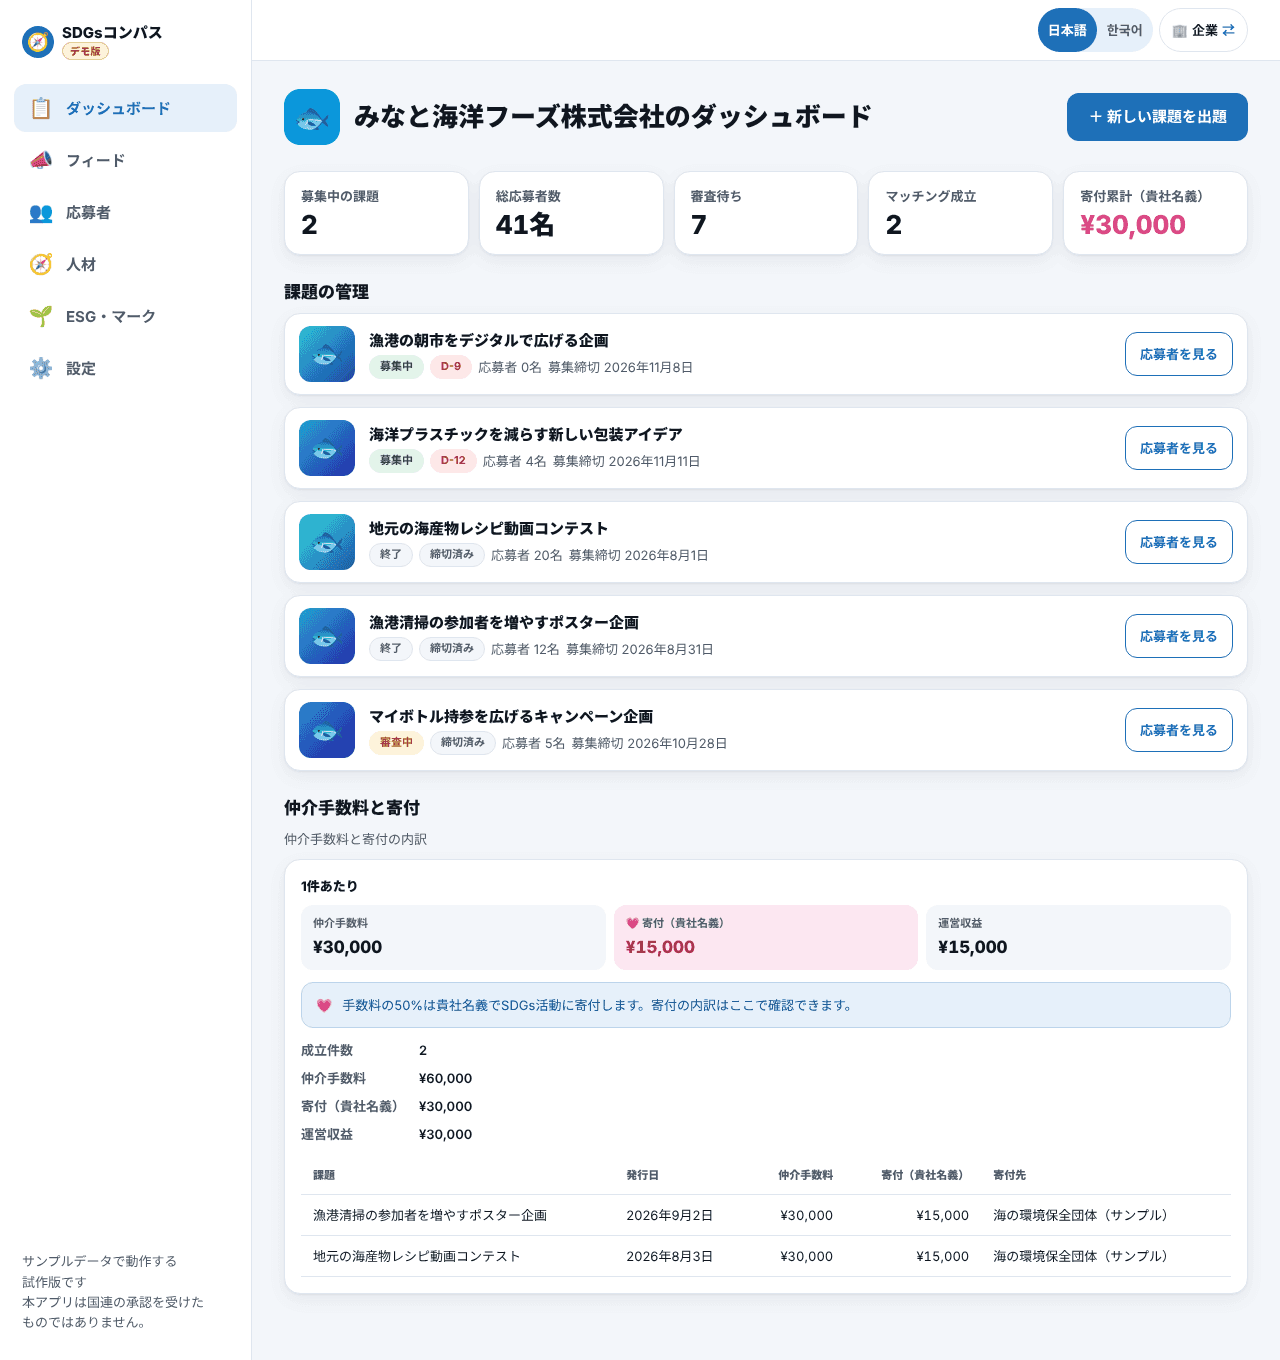
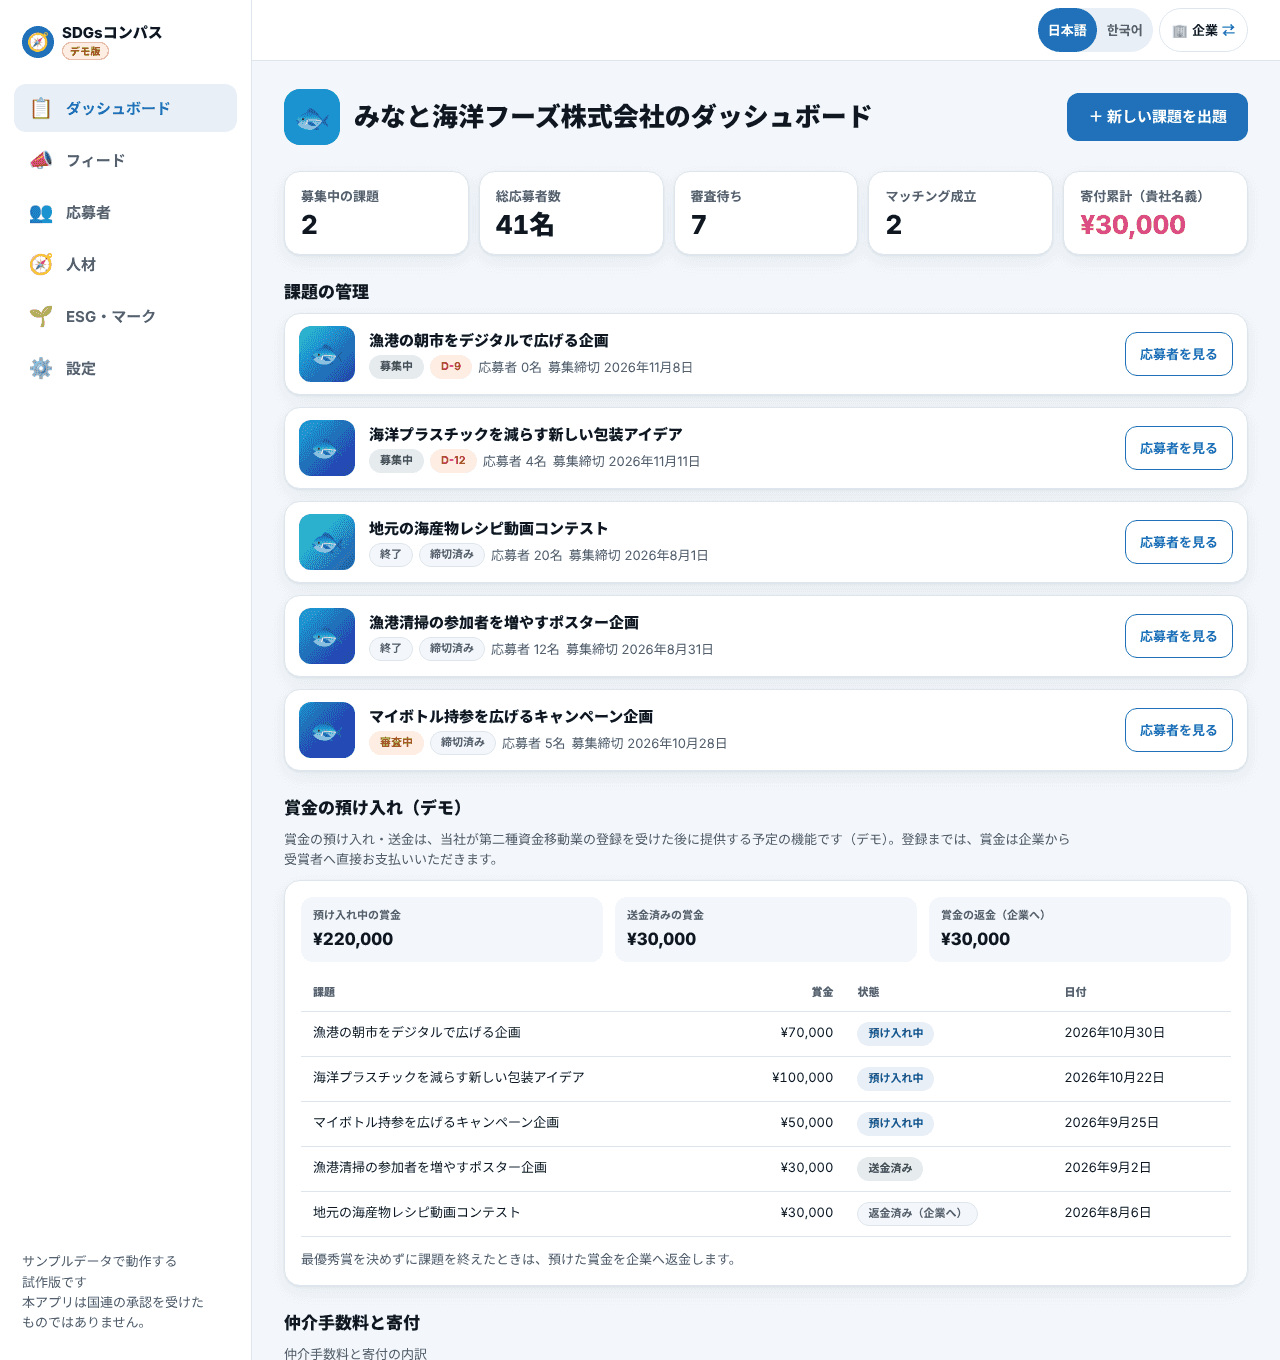
docs: リワード残高 설계(rewards.md)·README·목업
- docs/rewards.md: 구조(그림) · 사용자 결정 · 규칙과 코드·DB 대응 · 법적 근거 요약과 출처(2026-10-31 확인) ·
  하지 않는 것 · 전문가 확인 질문 (법률 자문 아님)
- docs/student-merit.md: "앱은 돈을 다루지 않아요" → 등록 후 リワード残高(데모)로 맞춤
- README: 한눈에 보기 · 시연 순서(⑤·⑩) · 화면 ↔ 주소 ↔ 코드 · DB 규칙 · 기능 현황 · 저장소 구조 ·
  데모의 한계 · 일본어 개요 · 표 68 · 뷰 8 · DB 시험 7개 파일
- 목업: web-b2c-wallet-ja/ko (새로), Impact · 대시보드 ja/ko · 응모자 · 새 과제 다시 찍기 (모두 75KB 이하)

Closes #25

Claude-Session: https://claude.ai/code/session_01LvWATVHgpvryt6TBs7ZpJZ

diff --git a/docs/rewards.md b/docs/rewards.md
@@ -1,0 +1,123 @@
+# リワード残高 (보상 잔액) — 기업 상금 · 운영 환원 · 출금 설계 (#25, 데모)
+
+> 이 문서는 서비스 설계와 공개된 1차 자료를 정리한 메모예요. **법률·세무 자문이 아니고**, 실제 운영 전에 전문가(행정서사·변호사·세무사)의 확인을 받을 예정이에요.
+> 데모 앱은 화면과 규칙만 보여 주고 **실제 송금·결제·은행 연동·본인 확인(eKYC)은 하지 않아요.** 금액·회사·사람은 모두 가상이에요.
+
+## 한 줄 요약
+
+학생은 **「リワード残高」(보상 잔액, 엔 단위)** 로 ① 기업이 과제에 건 **상금**과 ② 운영사의 **운영 환원**을 받고, **본인 확인 뒤 은행 계좌로 출금**해요(1회 100만 엔 이하).
+이 기능은 운영사(株式会社)가 **第二種資金移動業 등록**을 받은 뒤에 제공해요. 등록 전에는 운영사가 돈을 다루지 않고, 상금은 기업이 수상자에게 직접 지급해요.
+실적(참가·제출·수상)은 **임팩트 레벨**로만 보여 주고, 레벨은 돈과 관계없어요(바꿀 수 없어요).
+
+## 사용자 결정 (2026-11-01)
+
+| 주제 | 결정 |
+| --- | --- |
+| 실적 표시 | **레벨 + 다음 레벨까지 진행률(%)**. 화면의 포인트 숫자는 숨겨요(#24). 레벨은 돈과 무관하고 바꿀 수 없어요. |
+| 보상 방식 | **처음부터 등록형** — 운영사가 第二種資金移動業 등록을 받은 뒤 ① 상금(과제를 낼 때 운영사에 예치) ② 운영 환원을 リワード残高로 보내고, 학생은 본인 확인 뒤 출금(1회 100만 엔 이하). **등록 전에는 제공하지 않아요.** |
+| 운영 환원 | 각 기 말에 **운전자금 3개월분**(그 기 경비 + 매출원가의 3/12)을 남기고, **그 기 경상이익 중 남는 금액 전부**를 학생에게 환원. 배분은 **미리 공개한 기준**(그 기의 수상·제출 등 실적 — 작업 시간·양에 비례하지 않게). |
+
+## 구조
+
+```mermaid
+flowchart LR
+  subgraph COMPANY["기업"]
+    C1["과제를 낸다<br/>(상금 ¥N)"]
+  end
+  subgraph OPERATOR["운영사 (株式会社 · 第二種資金移動業 등록 후)"]
+    D["상금 예치<br/>prize_deposits"]
+    R["기 말 운영 환원<br/>운전자금 3개월분을 남긴 이익 전부"]
+  end
+  subgraph STUDENT["학생"]
+    W["リワード残高<br/>원장 wallet_entries"]
+    K["본인 확인 (eKYC)"]
+    B["은행 계좌"]
+    L["インパクトレベル<br/>(돈과 무관 · 바꿀 수 없음)"]
+  end
+  C1 -- "출제할 때 예치" --> D
+  D -- "최우수상 팀에 송금" --> W
+  D -. "최우수상 없이 마감 → 반환" .-> C1
+  R -- "미리 공개한 기준(수상·제출 실적)으로 배분" --> W
+  W --> K
+  K -- "출금 신청: 1회 1~100만 엔 · 잔액 이하" --> B
+  C1 -. "참가·제출·수상 실적" .-> L
+```
+
+- 잔액은 **살 수 없고(충전 없음)**, **남에게 넘길 수 없고**, **이자가 붙지 않아요.** 원장에는 입금(상금·환원)과 출금만 있어요.
+- 상금은 과제의 **최우수상 1팀**(그 팀의 제출자 = 데모의 대표)에 가요. 한 번 보낸 상금은 되돌리지 않아요. 우수상·특별상에는 이 데모에서 상금을 붙이지 않아요(상별 상금은 앞으로 검토).
+- 최우수상을 정하지 않고 과제가 끝나면 맡긴 상금은 기업에 돌려줘요(「賞金の返金（企業へ）」).
+- 사업 계획의 시산에서는 **처음 몇 기 동안 기말 자금이 운전자금 3개월분에 못 미쳐 환원이 없을 수 있어요.** 앱·문서는 이것을 숨기지 않고, 운영자 화면의 수지 시뮬레이션(#26, [docs/admin.md](admin.md))이 같은 규칙으로 "몇 기부터 환원되는지"를 보여 줘요. 공개 저장소에는 실제 계획의 숫자를 싣지 않아요.
+
+## 데모에서 볼 수 있는 것
+
+| 누가 | 어디서 | 무엇을 |
+| --- | --- | --- |
+| 학생 | Impact 화면의 「リワード残高」 카드 → **`/wallet/`**(웹) · **`/wallet`**(앱) | 잔액 · 입출금 내역(「企業の賞金」「運営からの還元」「出金」) · 본인 확인 데모 버튼 「本人確認を完了する（デモ）」 · 출금 신청 폼(금액 검사) · 완료 안내 「申請を受け付けました（デモ：実際の送金は行いません）」 · 고지 ①~④ |
+| 기업 | 새 과제 출제 | 상금 입력 옆 안내 「賞金は当社に預け入れ、受賞者のリワード残高へ送金されます（資金移動業の登録後）」 |
+| 기업 | 응모자·심사 | 과제를 고르면 상금 상태 안내. **최우수상을 정하면 맡긴 상금이 수상 팀으로 송금**(데모) — 내 기획서(학생 Mina)가 최우수상이면 학생 화면의 잔액이 늘어요 |
+| 기업 | 대시보드 | 「賞金の預け入れ（デモ）」: 預け入れ中 · 送金済み · 賞金の返金（企業へ）의 합계와 과제별 상태 |
+
+샘플(가상): 학생 Mina 는 수상 실적(「プラスチックごみ削減ハッカソン」 優秀賞)에 이어진 기업 상금 ¥30,000 과 「運営からの還元（サンプル）」 ¥1,500 을 받아 잔액 ¥31,500, 본인 확인 전, 출금 0건. 상금이 걸린 샘플 과제는 모두 예치 중이고, 끝난 과제 2건은 송금·반환 예시예요.
+
+화면에 늘 보이는 고지(ja · ko 같은 뜻):
+
+1. 「リワード残高は、当社が第二種資金移動業の登録を受けた後に提供する予定の機能です（デモ）。」
+2. 「出金には本人確認が必要です。1回100万円まで。」
+3. 「賞金・還元は所得として課税される場合があります（確定申告が必要なことがあります）。留学生の方は、受け取る前に在留資格（資格外活動許可）を確認してください。」
+4. 「インパクトレベルは換金できません。リワード残高とは別のものです。」
+
+## 규칙과 코드 · DB
+
+| 규칙 | 앱 (`packages/core`) | DB (`db/schema.sql`, 시험 `db/tests/07_wallet.sql`) |
+| --- | --- | --- |
+| 잔액 = 입금(상금·환원) − 출금(신청 중 포함) | `wallet.ts` `walletTotals` | 뷰 `wallet_balances` |
+| 출금: 본인 확인 완료 → 1엔 이상 정수 → **1회 1,000,000엔 이하** → 잔액 이하 | `validateWithdrawal` · `WITHDRAWAL_MAX_YEN` | `withdrawal_requests` CHECK + 가드 트리거(계정 행을 잠그고 잔액 확인) |
+| 상금 예치: 과제당 1건, 금액 = 그 과제의 상금 | `depositFor` (출제할 때) | `prize_deposits` (복합 FK → `challenge_rewards`, `challenges`) |
+| 최우수상이면 송금, 한 번 보낸 돈은 되돌리지 않음 | `settlePrize` · `PRIZE_AWARD = "grand"` | `awards` 에 grand 가 들어오면 트리거가 송금 → 원장 입금. 복합 FK 로 같은 과제의 최우수상에만 |
+| 최우수상 없이 마감 → 기업에 반환 | (샘플만) | `prize_deposits` 가드: closed 이고 grand 가 없을 때만 refunded |
+| 운영 환원 총액 = max(0, min(경상이익, 기말 자금 − 운전자금 N개월분)), N = 3 | `returnPoolYen` · `RETURN_RESERVE_MONTHS` | `reward_return_rounds` 의 생성 열 `reserve_yen` · `total_yen` |
+| 배분 합계 = 환원 총액, 기준은 그 기가 시작하기 전에 공개 | — | `reward_return_allocations` + 지연 제약 트리거, CHECK `criteria_published_on <= period_start` |
+| 원장은 고칠 수 없음 | — | `wallet_entries` (수정·삭제 금지 트리거, 출처 하나에만 연결) |
+
+앱과 DB 가 같은 값을 쓰는지는 `db/tests/04_parity.sql` 의 9번(출금 상한·하한, 최우수상, 운전자금 개월 수, 환원 계산 12건)이 `scripts/gen-db-reference.ts` 가 만든 정답표로 맞춰 봐요. ERD 는 README 의 「⑨ リワード残高 · 상금 예치 · 운영 환원」.
+
+## 법적 근거 요약 (2026-10-31, 1차 자료 기준 — 법률 자문 아님)
+
+- **資金移動業 등록이 필요해요.** 기업의 돈을 받아 개인 학생에게 넘기는 것은 為替取引에 해당할 수 있어서 資金決済法(2条の2 등)·金融庁 事務ガイドライン에 따른 資金移動業 등록이 필요해요. 등록은 **株式会社**만 할 수 있고, 아직 보내지 않은 돈(미송금 자금)은 **100% 履行保証金**(供託·保全契約·信託)으로 지켜야 해요. AML/CFT 와 **本人確認(eKYC)** 체계, **登録免許税 15만 엔**, 표준 처리 기간 2개월(사전 상담 별도).
+- **第二種 = 1회 100만 엔 이하** 송금이에요. 그래서 출금 1회 상한을 100만 엔으로 두었어요.
+- 학생은 잔액을 **살 수 없고(충전 없음)**, 남에게 **넘길 수 없어요.** 잔액에 이자를 붙이지 않아요.
+- **景品表示法**: 구매를 조건으로 하지 않는 공모전 상금은 オープン懸賞으로 보아 상한이 없어요(문제가 적다고 봐요).
+- **세금**: 상금은 一時所得(특별공제 50만 엔), 정기적인 환원은 雑所得이 될 수 있어요 → 앱에 "확정신고가 필요할 수 있음" 안내. 지급하는 쪽의 원천징수·支払調書 의무는 별도로 검토해요.
+- **유학생**: 한 번뿐인 공모전 상금은 허가가 필요 없을 수 있지만, **정기적인 환원은 '보수'로 보아 資格外活動許可가 필요할 수 있어요** → 앱에 "受け取る前に在留資格を確認" 안내.
+- **노동**: 보상이 작업 시간·양에 비례하면 労働者性(근로자성) 위험이 있어요 → 배분 기준은 **수상·제출 같은 실적**으로, 시간·양에 비례하지 않게.
+
+### 출처 (모두 2026-10-31 확인 — 제목은 내용을 짧게 적은 것이고, 원문은 링크를 봐 주세요)
+
+- 金融庁 — 資金移動業 관련 자료 (PDF): https://www.fsa.go.jp/menkyo/menkyoj/shikin_idou.pdf
+- 金融庁 — 2025-12-16 공표 자료 (PDF): https://www.fsa.go.jp/news/r7/sonota/20251216/33.pdf
+- 関東財務局 — 資金移動業 등록 안내: https://lfb.mof.go.jp/kantou/kinyuu/pagekt_cnt_20250516001sikinidou.html
+- 消費者庁 — 景品規制: https://www.caa.go.jp/policies/policy/representation/fair_labeling/premium_regulation/
+- 国税庁 タックスアンサー No.1490 (一時所得): https://www.nta.go.jp/taxes/shiraberu/taxanswer/shotoku/1490.htm
+- 国税庁 タックスアンサー No.7431 (法定調書): https://www.nta.go.jp/taxes/shiraberu/taxanswer/hotei/7431.htm
+- 出入国在留管理庁 — 資格外活動許可: https://www.moj.go.jp/isa/applications/procedures/nyuukokukanri07_00045.html
+- 公正取引委員会 — フリーランス法 Q&A: https://www.jftc.go.jp/fllaw_limited/fllaw_qa.html
+- 経済産業省 — グレーゾーン解消制度의 회답 (2016-07-05, PDF): https://www.meti.go.jp/policy/jigyou_saisei/kyousouryoku_kyouka/shinjigyo-kaitakuseidosuishin/press/160705_press.pdf
+
+## 하지 않는 것 (데모의 범위 밖)
+
+- 실제 송금·결제·은행 연동, 실제 본인 확인(eKYC)·계좌 등록 — 데모는 버튼과 상태만 바꿔요.
+- **등록 전의 운영** — 등록 전에는 운영사가 상금·환원을 맡거나 보내지 않아요(상금은 기업이 수상자에게 직접 지급).
+- 팀 상금의 나눔 — 데모는 제출자(대표)에게 보내요. 실서비스에서는 팀 안의 나눔 비율을 미리 정하는 방식을 검토해요.
+- 상별(최우수상 외) 상금, 원천징수·支払調書 계산, 출금 실패·취소(반려) 처리, 1인당 잔액 상한 관리.
+- 실제 운영 환원 회차 — 샘플 내역 「運営からの還元（サンプル）」 은 화면 예시예요. 환원은 기 말에 이익과 자금이 남을 때만 생겨요.
+
+## 전문가에게 확인할 질문
+
+1. 기업이 맡긴 상금을 수상 학생의 잔액으로 보내는 구조가 為替取引(資金移動業)에 해당하는지, 収納代行 등 다른 정리가 가능한지.
+2. 운영사가 자기 이익을 학생에게 나누는 「運営からの還元」을 잔액으로 보내는 것이 資金移動業의 범위 안에서 정리되는지(前払式支払手段 등 다른 규제와의 관계 포함).
+3. 第二種의 1회 100만 엔 상한 외에, 한 사람의 잔액이 오래 쌓이는 것(滞留)에 대해 필요한 관리가 있는지.
+4. 本人確認(取引時確認)을 입금 전(계정을 열 때)에 해야 하는지, 출금 전에 해도 되는지.
+5. 상금(一時所得)과 정기 환원(雑所得 등)에 대한 지급자 측의 원천징수·支払調書 의무와, 학생 안내 문구가 충분한지.
+6. 유학생이 정기 환원을 받을 때 資格外活動許可가 필요한지, 앱에서 받기 전에 확인하는 절차가 필요한지.
+7. 배분 기준(수상·제출 실적)이 労働者性·フリーランス法 관점에서 문제가 없는지, 기준 공개 시점(기가 시작하기 전)이 적절한지.
+8. 履行保証金(供託·保全契約·信託) 중 초기 규모에 맞는 방법과, 등록까지 필요한 기간·비용의 현실적인 범위.

diff --git a/docs/student-merit.md b/docs/student-merit.md
@@ -23,7 +23,7 @@
 | 신청용 요약 「申請用のまとめ」(기간을 골라 활동 · SDGs · 증명서 ID·QR · 고지를 A4 한 장으로) | **지금** (시제품: 웹은 인쇄·PDF 저장, 모바일은 글로 공유) | Impact 화면 → 「申請用のまとめを作る」 `/impact/summary/` (#22) |
 | 대학·재단 제도 일람(제도 이름 · 마감 · 필요 서류) | **구상** | — |
 | 결과를 앱에 자기 신고(포트폴리오에 「申告・未検証」으로 표시) | **구상** | — |
-| 기업이 賞金·副賞을 학생에게 직접 지급 | **구상, 보류** — 앱은 돈을 다루지 않아요(§5) | — |
+| 기업 상금 · 운영 환원을 「リワード残高」로 받고 본인 확인 뒤 출금 | **데모** (2026-11-01 결정: 운영사가 第二種資金移動業 등록을 받은 뒤 제공. 등록 전에는 상금을 기업이 수상자에게 직접 지급) | Impact → 「リワード残高」 `/wallet/` (#25) · [rewards.md](rewards.md) |
 
 <p align="center"><img src="mockups/web-b2c-certificate-ja.png" width="240" alt="디지털 증명서 화면 (F-502)"> <img src="mockups/web-b2c-summary-ja.png" width="240" alt="신청용 요약 화면 (#22) — 기간 고르기와 인쇄 버튼"> <img src="mockups/web-b2c-summary-print-ja.png" width="300" alt="신청용 요약을 인쇄한 A4 한 장 (#22) — 활동 기록·관련 SDGs·증명서 QR·고지"></p>
 
@@ -78,11 +78,11 @@ flowchart TD
 
 ## 5. 앱이 하지 않는 것
 
-- **장학금·상금을 지급하지 않아요.** 앱은 돈의 흐름에 관여하지 않아요.
+- **장학금을 지급하지 않아요.** 돈은 기업이 과제에 건 **상금**과 운영사의 **운영 환원**만 「リワード残高」로 다뤄요 — 운영사가 第二種資金移動業 등록을 받은 뒤에 제공할 기능이고, 지금은 데모 화면뿐이에요(실제 송금 없음). 등록 전에는 운영사가 돈을 다루지 않아요 → [rewards.md](rewards.md).
 - **대학·재단과 제휴한 것이 아니에요.** 특정 대학 제도의 이름은 예시로만 들어요.
 - 증명서는 **앱이 기록한 활동의 진위**를 확인해 줄 뿐이고, 대학이 증빙으로 받아 주는지는 **각 대학이 정해요.**
 - 신청용 요약은 앱의 활동 기록을 **정리한 자료**예요. 대학 양식에 맞춰 주거나 대신 제출하지 않고, 화면·인쇄물에 「장학금이나 제도 선정을 보장하지 않는다」「대학·단체와 제휴하지 않았다」「제출처의 모집 요강에서 형식을 확인하라」는 고지가 늘 함께 나와요.
-- 기업이 챌린지에 賞金·副賞을 붙여 학생에게 **직접** 주는 방식은 구상으로만 남겨 뒀어요. 이름은 奨学金이 아니라 賞金·奨励金이어야 하고, 지급이 활동의 대가로 보이는지에 따라 과세·원천징수·부양 공제·유학생의 資格外活動·노동관계 문제가 달라져서, **전문가 확인 전에는 구현하지 않아요.**
+- 상금·환원의 이름은 奨学金이 아니라 「企業の賞金」「運営からの還元」이에요. 지급이 활동의 대가로 보이는지에 따라 과세·원천징수·부양 공제·유학생의 資格外活動·노동관계 문제가 달라져서, 화면에 세금·在留資格 안내를 늘 붙이고 배분 기준은 작업 시간·양이 아니라 실적(수상·제출)으로 정해요. **실제 운영은 전문가 확인과 등록 뒤에 해요** → [rewards.md](rewards.md).
 - "奨学金を支給します", 금액 보장, "○○大学と提携" 같은 표현은 쓰지 않아요.
 
 ## 6. 앞으로 확인할 것
